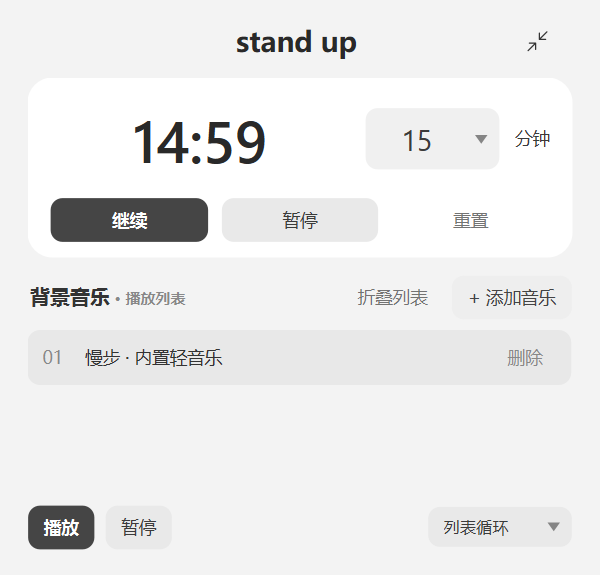
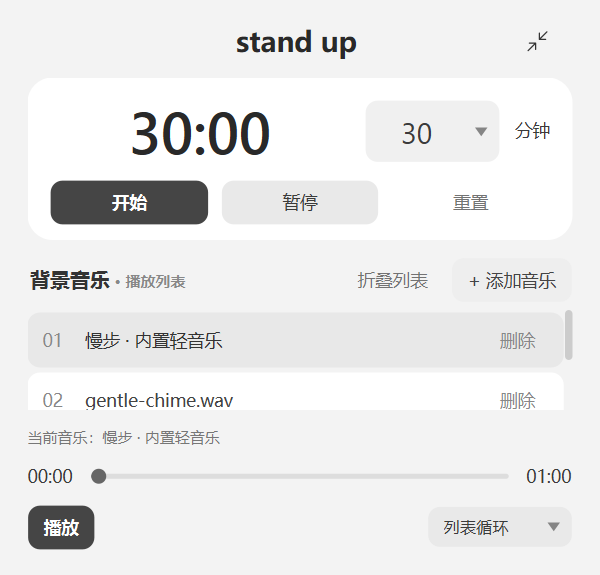
Add music seeking and unified playback control; select imported tracks

diff --git a/work_buddy.py b/work_buddy.py
@@ -7,7 +7,7 @@ from PySide6.QtGui import QColor, QFont, QFontMetrics, QIcon, QPainter, QPainter
 from PySide6.QtMultimedia import QAudioOutput, QMediaPlayer, QSoundEffect
 from PySide6.QtWidgets import (QApplication, QComboBox, QFileDialog, QFrame,
     QHBoxLayout, QLabel, QListWidget, QListWidgetItem, QPushButton, QStyle,
-    QStyledItemDelegate, QVBoxLayout, QWidget, QMessageBox)
+    QStyledItemDelegate, QVBoxLayout, QWidget, QMessageBox, QSlider)
 
 NUMBER_FONT = 'Helvetica Neue' if sys.platform == 'darwin' else 'Segoe UI'
 
@@ -375,12 +375,34 @@ class WorkBuddy(QWidget):
         self.list.itemDoubleClicked.connect(lambda item: self.play_music())
         playlist_layout.addWidget(self.list, 1)
         layout.addWidget(self.playlist_section, 1)
+        self.music_status = QLabel('尚未播放背景音乐')
+        self.music_status.setStyleSheet('font-size:12px;color:#777777;')
+        self.music_status.setWordWrap(True)
+        layout.addWidget(self.music_status)
+        progress = QHBoxLayout()
+        self.elapsed = QLabel('00:00')
+        self.total = QLabel('00:00')
+        self.seek = QSlider(Qt.Orientation.Horizontal)
+        self.seek.setRange(0, 0)
+        self.seek.setEnabled(False)
+        self.seek.setAccessibleName('背景音乐播放进度')
+        self.seek.setStyleSheet('QSlider::groove:horizontal {height:4px;background:#dddddd;border-radius:2px;} QSlider::sub-page:horizontal {background:#888888;border-radius:2px;} QSlider::handle:horizontal {width:12px;margin:-4px 0;background:#666666;border-radius:6px;}')
+        self.seek.sliderMoved.connect(lambda value: self.elapsed.setText(self.format_music_time(value)))
+        self.seek.sliderReleased.connect(lambda: self.player.setPosition(self.seek.value()))
+        self.seek.actionTriggered.connect(lambda action: self.player.setPosition(self.seek.sliderPosition()) if not self.seek.isSliderDown() else None)
+        self.player.positionChanged.connect(self.update_music_position)
+        self.player.durationChanged.connect(self.update_music_duration)
+        self.player.seekableChanged.connect(lambda value: self.seek.setEnabled(value and self.player.duration() > 0))
+        self.player.errorOccurred.connect(self.music_error)
+        progress.addWidget(self.elapsed)
+        progress.addWidget(self.seek, 1)
+        progress.addWidget(self.total)
+        layout.addLayout(progress)
         bottom = QHBoxLayout()
         self.bottom_layout = bottom
         bottom.setSpacing(8)
-        self.play = self.button('播放', self.play_music, 'primary')
+        self.play = self.button('播放', self.toggle_selected_music, 'primary')
         bottom.addWidget(self.play)
-        bottom.addWidget(self.button('暂停', self.player.pause))
         bottom.addStretch()
         self.mode = ChoiceBox(objectName='mode')
         self.mode.addItems(['顺序播放', '单曲循环', '列表循环'])
@@ -395,7 +417,10 @@ class WorkBuddy(QWidget):
     def choose(self):
         paths, _ = QFileDialog.getOpenFileNames(
             self, '添加背景音乐', '', '音乐文件 (*.mp3 *.wav *.ogg *.m4a)')
+        first = self.list.count()
         self.add_tracks(paths)
+        if paths:
+            self.list.setCurrentRow(first)
 
     def add_tracks(self, paths):
         # 完整路径跟随列表项移动，避免同名歌曲排序后指向错误文件。
@@ -415,6 +440,35 @@ class WorkBuddy(QWidget):
         button.setToolTip(label)
         button.setAccessibleName(label)
         button.update()
+        self.play.setText('暂停' if playing else '播放')
+
+    @staticmethod
+    def format_music_time(milliseconds):
+        seconds = max(0, milliseconds // 1000)
+        return f'{seconds // 60:02d}:{seconds % 60:02d}'
+
+    def update_music_position(self, position):
+        if not self.seek.isSliderDown():
+            self.seek.setValue(position)
+            self.elapsed.setText(self.format_music_time(position))
+
+    def update_music_duration(self, duration):
+        self.seek.setRange(0, max(0, duration))
+        self.total.setText(self.format_music_time(duration))
+        self.seek.setEnabled(duration > 0 and self.player.isSeekable())
+
+    def music_error(self, *args):
+        self.music_status.setText('播放失败：' + (self.player.errorString() or '无法读取此音频文件'))
+        self.music_status.setToolTip(self.player.source().toLocalFile())
+        self.sync_music_button()
+
+    def toggle_selected_music(self):
+        item = self.list.currentItem()
+        selected = QUrl.fromLocalFile(item.data(Qt.ItemDataRole.UserRole)) if item else QUrl()
+        if not selected.isEmpty() and selected != self.player.source():
+            self.play_music()
+        else:
+            self.toggle_music()
 
     def toggle_music(self):
         if self.player.playbackState() == QMediaPlayer.PlaybackState.PlayingState:
@@ -432,6 +486,11 @@ class WorkBuddy(QWidget):
         if item is None:
             return
         source = QUrl.fromLocalFile(item.data(Qt.ItemDataRole.UserRole))
+        if not Path(source.toLocalFile()).is_file():
+            self.music_status.setText('播放失败：文件不存在，请重新添加歌曲。')
+            return
+        self.music_status.setText('当前音乐：' + item.text())
+        self.music_status.setToolTip(source.toLocalFile())
         if source != self.player.source():
             self.player.setSource(source)
         self.player.play()

diff --git a/tests/test_music_controls.py b/tests/test_music_controls.py
@@ -1,0 +1,26 @@
+import sys
+from pathlib import Path
+sys.path.insert(0,str(Path(__file__).resolve().parents[1]))
+from PySide6.QtWidgets import QApplication,QFileDialog
+from PySide6.QtMultimedia import QMediaPlayer
+from PySide6.QtTest import QTest
+from unittest.mock import patch
+from work_buddy import WorkBuddy
+app=QApplication([]);w=WorkBuddy();w.show();w.audio.setMuted(True);w.chime.setMuted(True)
+custom=str(Path('assets/gentle-chime.wav').resolve())
+with patch.object(QFileDialog,'getOpenFileNames',return_value=([custom],'')):w.choose()
+assert w.list.currentRow()==1
+w.toggle_selected_music()
+for _ in range(80):
+ QTest.qWait(100)
+ if w.player.duration()>0 and w.player.isSeekable():break
+assert Path(w.player.source().toLocalFile())==Path(custom) and w.total.text()=='00:04'
+assert w.seek.isEnabled()
+w.toggle_selected_music();assert w.player.playbackState()==QMediaPlayer.PlaybackState.PausedState
+w.seek.setSliderDown(True);w.seek.setValue(2000);w.seek.setSliderDown(False);QTest.qWait(100)
+assert abs(w.player.position()-2000)<200
+w.toggle_selected_music();assert w.play.text()=='暂停'
+w.list.setCurrentRow(0);w.toggle_selected_music();QTest.qWait(200)
+assert 'quiet-steps' in w.player.source().toLocalFile()
+w.player.pause();app.processEvents();w.grab().save('artifacts/music-progress.png')
+w.close();print('PASS: added-track selection, combined button, duration and seek while paused, switching tracks')

diff --git a/README.md b/README.md
@@ -91,3 +91,7 @@ Mac 构建由 `.github/workflows/macos.yml` 手动触发，在两种原生 macOS
 ## 内置背景音乐
 
 默认列表包含《慢步》：60 秒无歌词、纯合成钢琴风格音乐，无需自行下载，点击播放即可。默认列表循环，不自动播放。仍可添加本地歌曲，或删除列表中的内置曲目（下次启动恢复）。倒计时结束自动暂停背景音乐。制作脚本与音符记录见 scripts/build_background_music.py 和 music/。
+
+## 音乐播放控制
+
+添加后会选中新歌曲；底部使用一个播放/暂停按钮。进度条显示已播放时间和总时长，可拖动定位。失败时显示播放器错误信息；受加密或平台专用格式保护的下载文件不保证可播放。
